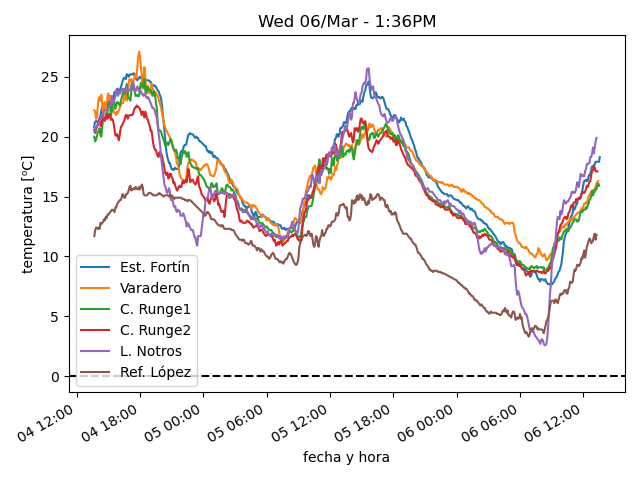
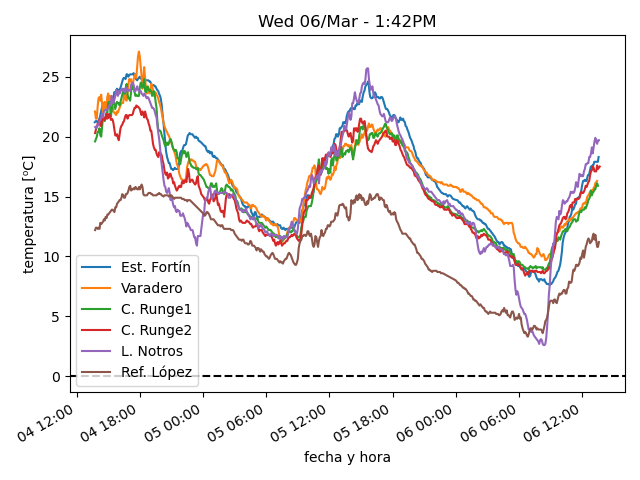
actualiza datos

diff --git a/estaciones/estacion4.html b/estaciones/estacion4.html
@@ -18,32 +18,32 @@
     </tr>
     <tr>
      <td class="stats_data">
-      1:19PM
+      1:39PM
      </td>
     </tr>
     <tr>
      <td class="stats_data">
-      17.1
+      17.5
      </td>
     </tr>
     <tr>
      <td class="stats_data">
-      5.8
+      6.0
      </td>
     </tr>
     <tr>
      <td class="stats_data">
-      47.3
+      46.6
      </td>
     </tr>
     <tr>
      <td class="stats_data">
-      1014.53
+      1014.43
      </td>
     </tr>
     <tr>
      <td class="stats_data">
-      2.6/4.9 SSE
+      3.0/4.4 SW
      </td>
     </tr>
     <tr>
@@ -58,7 +58,7 @@
     </tr>
     <tr>
      <td class="stats_data">
-      727.3
+      731.9
      </td>
     </tr>
    </tbody>

diff --git a/estaciones/estacion6.html b/estaciones/estacion6.html
@@ -18,32 +18,32 @@
     </tr>
     <tr>
      <td class="stats_data">
-      1:15PM
+      1:35PM
      </td>
     </tr>
     <tr>
      <td class="stats_data">
-      11.8
+      11.2
      </td>
     </tr>
     <tr>
      <td class="stats_data">
-      1.2
+      0.3
      </td>
     </tr>
     <tr>
      <td class="stats_data">
-      48.0
+      47.0
      </td>
     </tr>
     <tr>
      <td class="stats_data">
-      1013.14
+      1013.11
      </td>
     </tr>
     <tr>
      <td class="stats_data">
-      4.8/16.1 NE
+      4.8/9.7 SE
      </td>
     </tr>
     <tr>
@@ -58,7 +58,7 @@
     </tr>
     <tr>
      <td class="stats_data">
-      895.0
+      894.0
      </td>
     </tr>
    </tbody>

diff --git a/estaciones/estacion5.html b/estaciones/estacion5.html
@@ -18,17 +18,17 @@
     </tr>
     <tr>
      <td class="stats_data">
-      1:15PM
+      1:35PM
      </td>
     </tr>
     <tr>
      <td class="stats_data">
-      19.9
+      19.7
      </td>
     </tr>
     <tr>
      <td class="stats_data">
-      6.5
+      6.4
      </td>
     </tr>
     <tr>
@@ -38,7 +38,7 @@
     </tr>
     <tr>
      <td class="stats_data">
-      1012.36
+      1012.43
      </td>
     </tr>
     <tr>
